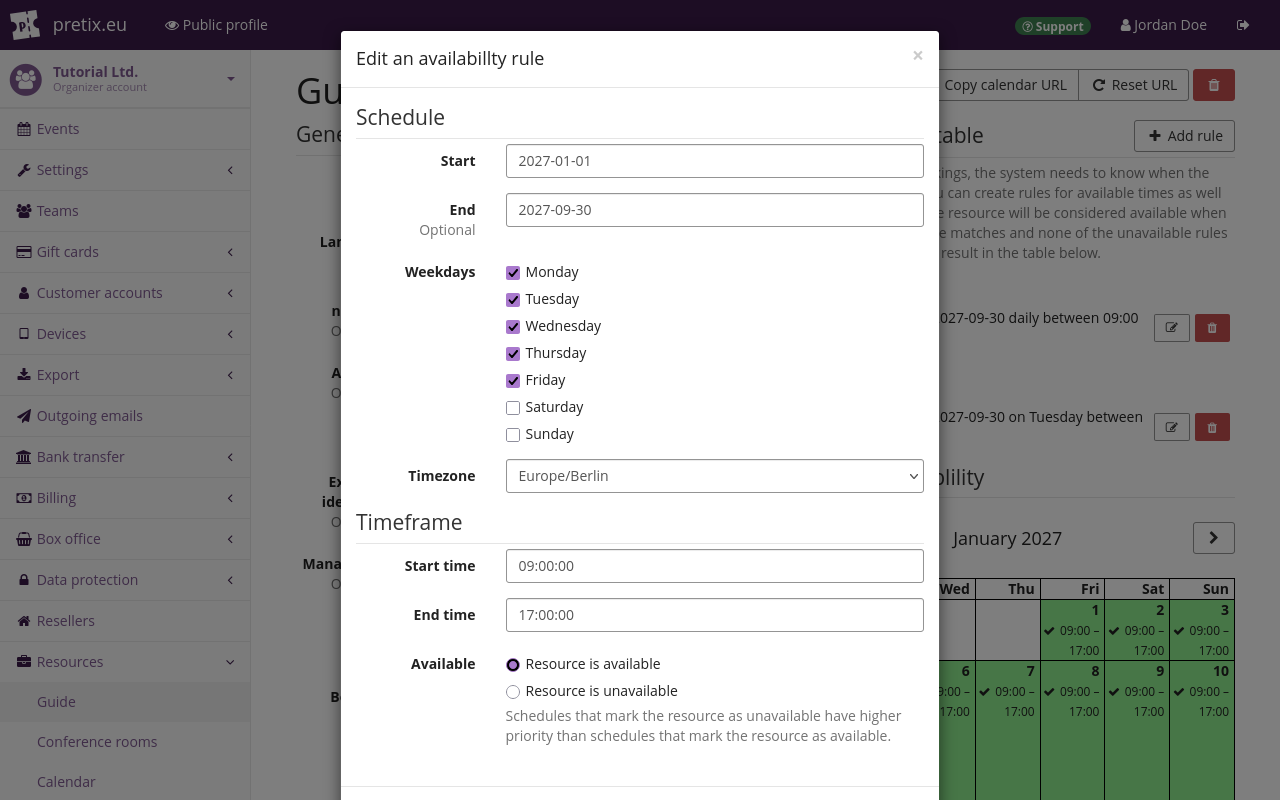
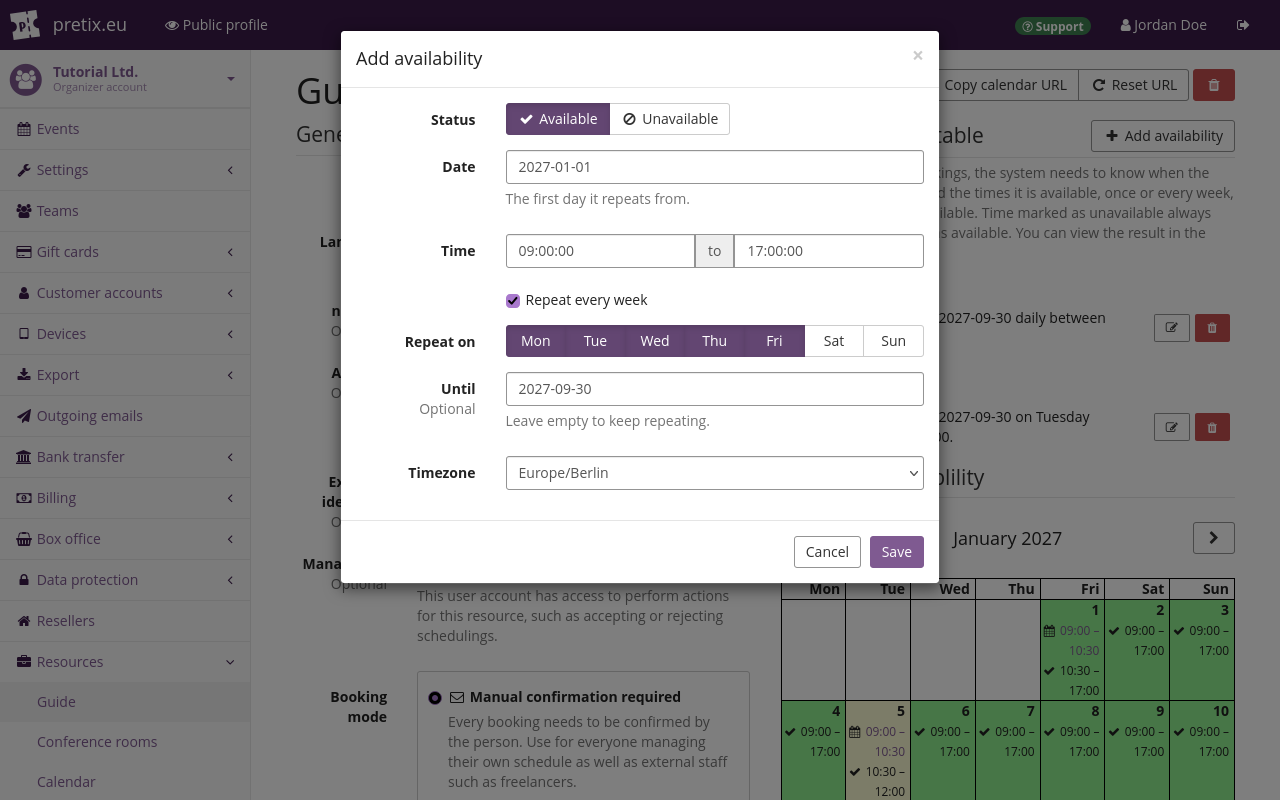
Document updated availability dialog

diff --git a/docs/guides/resources-and-scheduling.md b/docs/guides/resources-and-scheduling.md
@@ -222,28 +222,37 @@ The next section explains how to use them.
 #### Setting availability for a resource
 
 Under "Availability timetable", define when the resource is available.
-Click the :btn-icon:fa3-plus: Add rule: button.
-This opens a popup window titled "Add a new availability rule".
+Click the :btn-icon:fa3-plus: Add availability: button.
+This opens a popup window titled "Add availability".
 
-![Page with a popup open titled 'Add a new availability rule'. Under 'Schedule', there are inputs for start, end, weekdays, and timezone. Under 'Timeframe', there are inputs for start time and end time as well as a pair of radio buttons labeled 'Available' with the options 'Resource is available' and 'Resource is unavailable'.](../assets/screens/resources-scheduling/availability.png "Add a new availability rule")
+![Page with a popup open titled 'Add availability'. There are settings for 'Status (Available vs. Unavailable), date, time, repeating on the same days every week, until a certain date, and for timezone.](../assets/screens/resources-scheduling/availability.png "Add a new availability rule")
 
-Assume, for instance, your guide's availability is expected to stay the same July through September 2027.
+Assume, for instance, your guide's availability is expected to stay the same January through September 2027.
 They will work Monday through Friday from 9 AM to 5 PM.
 They will not be available on Tuesday from 12 AM to 2 PM because of a weekly team meeting.
 
-In that case, you enter a "Start" date of `2027-07-01` and an "End" of `2027-09-30`.
-Select all days from Monday through Friday.
-Select a "Start time" of `09:00:00` and an end time of `17:00:00`.
+In that case, select :btn-icon:fa3-check: Available: at the top.
+Enter the "Date" `2027-07-01`.
+Under "Time", enter ``09:00:00` to `17:00:00`.
+Check the box next to "Repeat every week".
+Under "Repeat on", select all days from Monday through Friday.
+Enter the "Until" date `2027-09-30`.
 Click the :btn:Save: button in the popup.
 
-Click the :btn-icon:fa3-plus: Add rule: button again.
-Enter the same "Start" and "End" dates as above.
-Check "Tuesday".
-Enter a "Start time" of `12:00:00` and an "End time" of `14:00:00`.
-Under "Available", select "Resource is unavailable".
+In order to add a time during which the resource is unavailable, click the :btn-icon:fa3-plus:Add availability: button again.
+At the top of the popup, select :btn-icon:fa3-ban: Unavailable:.
+Enter the "Date" `2027-07-01`.
+Under "Time", enter ``12:00:00` to `14:00:00`.
+Check the box next to "Repeat every week".
+Under "Repeat on", select Tuesday.
+Enter the "Until" date `2027-09-30`.
 Click the :btn:Save: button in the popup.
 
 The calendar view under "Resulting availability" will now display the available times for this resource.
+
+You can also define unique dates and times during which the resource is available or unavailable.
+In order to do so, add an availability and leave the box next to "Repeat every week" unchecked.
+In that case, the popup will only display the options that apply to a single date and time, not a repeating pattern.
 
 #### Deleting and reactivating resources
 
